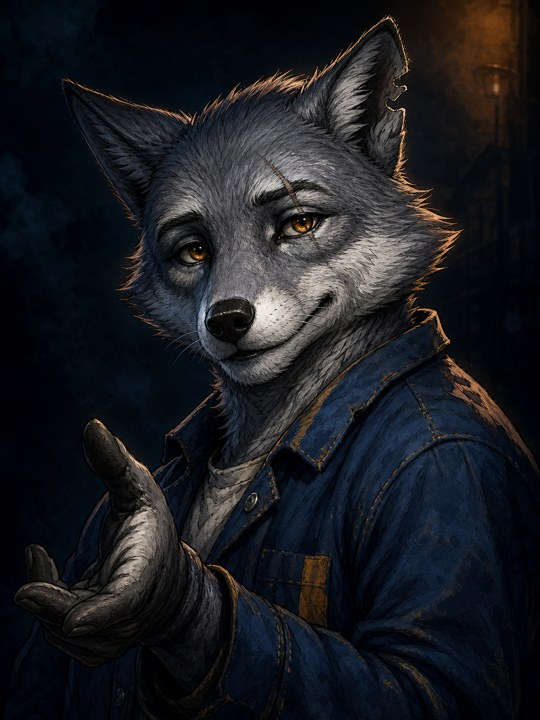
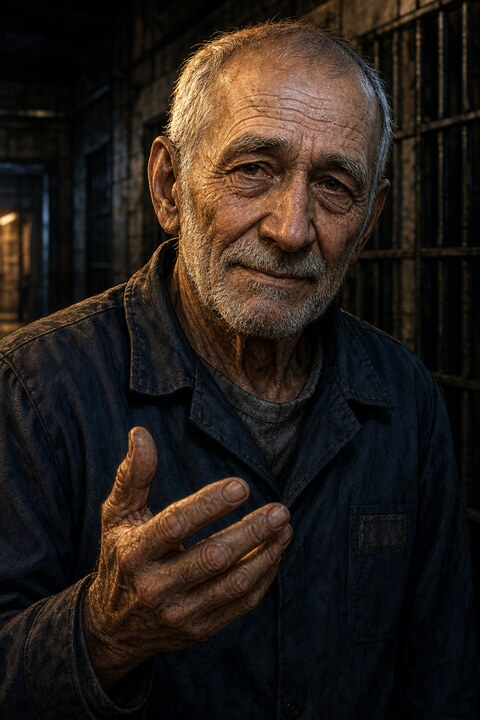
Replace fox tutorial guide with lore-fitting veteran inmate Ded Miron

diff --git a/mentor14.py b/mentor14.py
@@ -12,7 +12,7 @@ INK='#060b12'; PANEL='#111c2a'; GOLD='#e5b767'; FG='#f2efe7'
 # action='tap' requires an actual click on the highlighted widget. 'read' advances
 # only by the coach's button. No compulsory spending, travel, or chat submission.
 STEPS=(
- ('welcome','Знакомься, новичок', 'Я Лис. Сюда привели по делу, указанному в личном деле. Впереди — работа, соседи, двенадцать хозяев мест и твои решения. Выживай и выбирай концовку; я покажу кнопки без покупок и отправки слов в ИИ.', 'scene','read'),
+ ('welcome','Знакомься, новичок', 'Я Мирон. На зоне зовут Дедом. Ты здесь по делу из личного дела; я давно научился читать людей и местные правила. Впереди — работа, соседи, двенадцать хозяев мест и твои решения. Покажу кнопки, не потратив твои деньги и не отправив слов в ИИ.', 'scene','read'),
  ('hud','Следи за собой', 'Здесь здоровье, силы, сигареты, рубли и статус. Работа и переходы тратят время; раздача еды бывает утром, днём и вечером.', 'hud','read'),
  ('actions','Дела на месте', 'Внизу действия именно этой локации. У недоступных действий написана причина. За золотым знаком «!» на карте прячутся сюжетные сцены и проверки d20.', 'actions','read'),
  ('portrait','Кто здесь живёт?', 'Нажми на портрет соседа. Так ты выберешь собеседника и откроешь окно разговора. Отношения меняются из-за поступков; друг может помочь, враг — донести.', 'portrait','tap'),
@@ -127,7 +127,7 @@ class MentorTour:
                 im=im.convert('RGB').resize((82,110),Image.Resampling.LANCZOS)
                 self.photo=ImageTk.PhotoImage(im)
             tk.Label(card,image=self.photo,bg=PANEL).place(x=12,y=10)
-        tk.Label(card,text='ЛИС · НАСТАВНИК',fg=GOLD,bg=PANEL,font=('Segoe UI',12,'bold')).place(x=105,y=14)
+        tk.Label(card,text='ДЕД МИРОН · НАСТАВНИК',fg=GOLD,bg=PANEL,font=('Segoe UI',12,'bold')).place(x=105,y=14)
         tk.Label(card,text=f'{self.index+1}/{len(STEPS)}  {title}',fg=FG,bg=PANEL,font=('Segoe UI',10,'bold'),wraplength=195,justify='left').place(x=105,y=43)
         if key=='welcome':
             import profile

diff --git a/menu.py b/menu.py
@@ -12,7 +12,7 @@ HOWTO="""УПРАВЛЕНИЕ
 • Enter — отправить реплику NPC, Shift+Enter — перенос строки.
 
 КАК ИГРАТЬ
-• При первом продолжении Лис-наставник ведёт по подсвеченным кнопкам. Пропуск и отключение — на его панели; для повтора откройте главное меню → «Обучение с Лисом — заново».
+• При первом продолжении старый заключённый Дед Мирон ведёт по подсвеченным кнопкам. Пропуск и отключение — на его панели; для повтора откройте главное меню → «Обучение с Дедом Мироном — заново».
 • Кликните по портрету, чтобы выбрать собеседника, и пишите ему своими словами.
 • Время идёт от всего: переходы, работа, разговоры. Лечь на шконку можно только с 22:00.
 • Кормёжка в 08:00, 13:00 и 19:00: успейте прийти, иначе останетесь голодным.
@@ -70,7 +70,7 @@ class Menu:
         s.btn('Статистика и выборы',lambda:s.go('stats'),state='normal' if a.has_game else 'disabled')
         s.btn('Настройки',lambda:s.go('settings'))
         got=len(meta.ach_store(a.base_data)['unlocked']);s.btn('Достижения  (%d/%d)'%(got,len(meta.ACH)),lambda:s.go('ach'))
-        if a.has_game:s.btn('Обучение с Лисом — заново',lambda:(s.hide(),a.root.after(50,lambda:a.maybe_tutorial(force=True))))
+        if a.has_game:s.btn('Обучение с Дедом Мироном — заново',lambda:(s.hide(),a.root.after(50,lambda:a.maybe_tutorial(force=True))))
         s.btn('Как играть',lambda:s.go('howto'));s.btn('Авторы',lambda:s.go('authors'));s.btn('Выход',a.close)
         s.note('',MUTED,4)
     def screen_new(s):

diff --git a/build_v14.py b/build_v14.py
@@ -10,7 +10,7 @@ def build(root=ROOT):
     dest=root/'dist'/'Tyuryaga_v14'
     if dest.exists():shutil.rmtree(dest)
     shutil.copytree(previous,dest,ignore=shutil.ignore_patterns('__pycache__','*.pyc'))
-    (dest/'VERSION.txt').write_text('Tyuryaga v14 / Лис-наставник\n',encoding='utf8')
+    (dest/'VERSION.txt').write_text('Tyuryaga v14 / Дед Мирон — наставник\n',encoding='utf8')
     (dest/'ПРОЧИТАЙТЕ.txt').write_text((root/'ИГРАТЬ_v14.md').read_text(encoding='utf8'),encoding='utf8')
     (dest/'CHANGELOG_v14.md').write_text((root/'CHANGELOG_v14.md').read_text(encoding='utf8'),encoding='utf8')
     (dest/'TEST_REPORT.md').write_text('# Проверка v14\nЗапуск: `python -m unittest discover -s tests`. Тесты используют заглушки Tk и не являются реальным запуском Windows GUI, звука или модели.\n',encoding='utf8')

diff --git a/tests/test_mentor14.py b/tests/test_mentor14.py
@@ -21,6 +21,8 @@ class Geometry(unittest.TestCase):
         ids=[step[0] for step in mentor14.STEPS]
         self.assertEqual(len(ids),len(set(ids)))
         self.assertTrue({'chat','chat_send','map','boss','map_room','more','menu','portrait','hud','actions'}<=set(ids))
+        self.assertIn('Я Мирон.',mentor14.STEPS[0][2])
+        self.assertIn('ДЕД МИРОН · НАСТАВНИК',Path(mentor14.__file__).read_text(encoding='utf8'))
         with Image.open(Path(__file__).resolve().parents[1]/'assets/mentor_v14.jpg') as im:
             self.assertGreaterEqual(im.width,400)
             self.assertGreaterEqual(im.height,600)

diff --git a/ИГРАТЬ_v14.md b/ИГРАТЬ_v14.md
@@ -1,15 +1,15 @@
-# Тюряга v14 — Лис-наставник
+# Тюряга v14 — Дед Мирон — наставник
 
 ## Установка
 Распакуйте `TYURYAGA_v14_FULL.zip` в новую папку. Нужен Python 3.10+ с Tkinter; `START.bat` создаст окружение и установит Pillow (при первой установке нужен интернет). Для настоящего чата с NPC требуется **отдельно** перенести `runtime/llama.cpp/` и модель `models/8B/` из своей прошлой установки либо настроить пути в меню «Настройки → ИИ-модель». В архиве **нет** самой модели, DLL сервера или EXE игры. Карта, сцены, бой и обучение работают без неё.
 
 ## Первое включение
-Начните новую игру или продолжите старую. После меню появится Лис-наставник: окружающее поле затемняется, а нужная кнопка остаётся видимой в золотой рамке; рука с пальцем показывает область. В шагах с надписью **«Нажми на подсвеченное»** действительно нажмите указанное место (портрет, поле реплики, карту и свою комнату); для объясняющих шагов нажимайте **«Дальше»**. Экскурсия не покупает вещи, не пишет реплики за вас и не перемещает персонажа в другую комнату. В карте золото вокруг круглого портрета означает действующего босса, «!» — доступную сюжетную сцену, пачка — схрон. Возвращение в свою комнату не расходует время; переход в другую — расходует.
+Начните новую игру или продолжите старую. После меню появится Дед Мирон — наставник: окружающее поле затемняется, а нужная кнопка остаётся видимой в золотой рамке; рука с пальцем показывает область. В шагах с надписью **«Нажми на подсвеченное»** действительно нажмите указанное место (портрет, поле реплики, карту и свою комнату); для объясняющих шагов нажимайте **«Дальше»**. Экскурсия не покупает вещи, не пишет реплики за вас и не перемещает персонажа в другую комнату. В карте золото вокруг круглого портрета означает действующего босса, «!» — доступную сюжетную сцену, пачка — схрон. Возвращение в свою комнату не расходует время; переход в другую — расходует.
 
-**Отключить / пропустить:** кнопка на панели наставника доступна всегда. «Отключить» в первых двух шагах дополнительно отключает будущие автоподсказки; позднее «Пропустить» отмечает тур пройденным. Для повтора: `☰ → Обучение с Лисом — заново`. Для включения/отключения автоматических подсказок: `☰ → Настройки → Игра → Пошаговое обучение при первом запуске`. Настройки хранятся отдельно от сейва; старый прогресс совместим, перенесённый сейв не сбрасывается.
+**Отключить / пропустить:** кнопка на панели наставника доступна всегда. «Отключить» в первых двух шагах дополнительно отключает будущие автоподсказки; позднее «Пропустить» отмечает тур пройденным. Для повтора: `☰ → Обучение с Дедом Мироном — заново`. Для включения/отключения автоматических подсказок: `☰ → Настройки → Игра → Пошаговое обучение при первом запуске`. Настройки хранятся отдельно от сейва; старый прогресс совместим, перенесённый сейв не сбрасывается.
 
 ## Обычная игра
-`M` — карта, `J` — задания, `F2` — история разговора, `Ctrl+S` — сохранение, `Esc` — меню. Нажмите на портрет NPC, затем пишите в поле и отправляйте кнопкой «Сказать» или Enter (при наличии подключённого ИИ). «Наедине» меняет круг свидетелей. В нижнем ряду действия текущего места; в `⋯` — снаряжение, дуэль, схрон и статус. Переход с карты открывает двухпанельный комикс предыдущей и следующей локации. В бою `H` выводит управление; после первой тренировки удара `F` — рывок. Подсказки Лиса сценарные и не содержат сгенерированных чатов.
+`M` — карта, `J` — задания, `F2` — история разговора, `Ctrl+S` — сохранение, `Esc` — меню. Нажмите на портрет NPC, затем пишите в поле и отправляйте кнопкой «Сказать» или Enter (при наличии подключённого ИИ). «Наедине» меняет круг свидетелей. В нижнем ряду действия текущего места; в `⋯` — снаряжение, дуэль, схрон и статус. Переход с карты открывает двухпанельный комикс предыдущей и следующей локации. В бою `H` выводит управление; после первой тренировки удара `F` — рывок. Подсказки Деда Мирона сценарные и не содержат сгенерированных чатов.
 
 ## Проверка
 Автотесты проверяют игровой движок и виджеты через заглушки Tk, но не заменяют реальный запуск Windows GUI, звук, GPU и модель на компьютере игрока. Мастера фонов 4K получены нейросетевым увеличением и стилизацией, не являются нативной 4K-отрисовкой.

diff --git a/CHANGELOG_v14.md b/CHANGELOG_v14.md
@@ -1,8 +1,8 @@
-# Тюряга v14 — Лис-наставник
+# Тюряга v14 — Дед Мирон — наставник
 
-- При первом продолжении новой или перенесённой игры открывается отдельная **12-шаговая экскурсия по интерфейсу**. Четыре непрозрачные затемняющие области оставляют живое окно над нужным элементом; золотая рамка и нарисованная рука с пальцем подсказывают цель. Лис с собственным портретом объясняет, зачем нужны здоровье и часы, действия, собеседник, чат, приватность, карта, значки боссов и сюжетов, снаряжение, журналы и сохранения.
+- При первом продолжении новой или перенесённой игры открывается отдельная **12-шаговая экскурсия по интерфейсу**. Четыре непрозрачные затемняющие области оставляют живое окно над нужным элементом; золотая рамка и нарисованная рука с пальцем подсказывают цель. Дед Мирон, старый заключённый с собственным портретом, объясняет, зачем нужны здоровье и часы, действия, собеседник, чат, приватность, карта, значки боссов и сюжетов, снаряжение, журналы и сохранения.
 - В ключевых местах нужно нажать настоящий элемент интерфейса: портрет собеседника, поле ввода, кнопку карты и свою комнату на карте. Обучение не отправляет реплики в ИИ, не запускает бой, не покупает вещи и не тратит время на принудительный переход. Боссы и возможности описываются без выдуманных обещаний.
-- **Пропустить** доступно в любой момент; вначале «Отключить» выключает подсказки и сохраняет выбор в `settings.json`. Пункт «Обучение с Лисом — заново» в главном меню запускает экскурсию снова; в настройках «Игра» можно включить или отключить будущие подсказки. При закрытии игры подсветка и обработчики удаляются, повторный запуск не блокируется.
+- **Пропустить** доступно в любой момент; вначале «Отключить» выключает подсказки и сохраняет выбор в `settings.json`. Пункт «Обучение с Дедом Мироном — заново» в главном меню запускает экскурсию снова; в настройках «Игра» можно включить или отключить будущие подсказки. При закрытии игры подсветка и обработчики удаляются, повторный запуск не блокируется.
 - Наставник — сценарный помощник, не NPC и не замена модели ИИ. Без локальной GGUF-модели настоящий диалог с NPC остаётся недоступным, однако обучение работает офлайн.
 - Сохранены в полном архиве механики v13: иконки оружия и вещей, боевые тренировки, рывок, комикс-переходы; также сюжет, 12 боссов и сохранения предыдущих выпусков.
 
